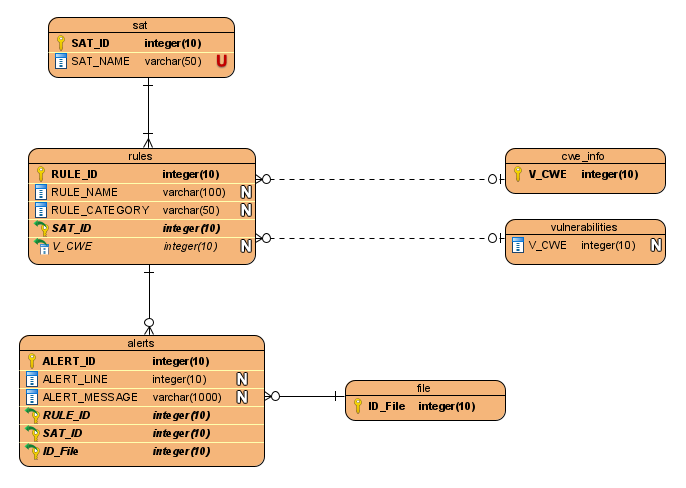
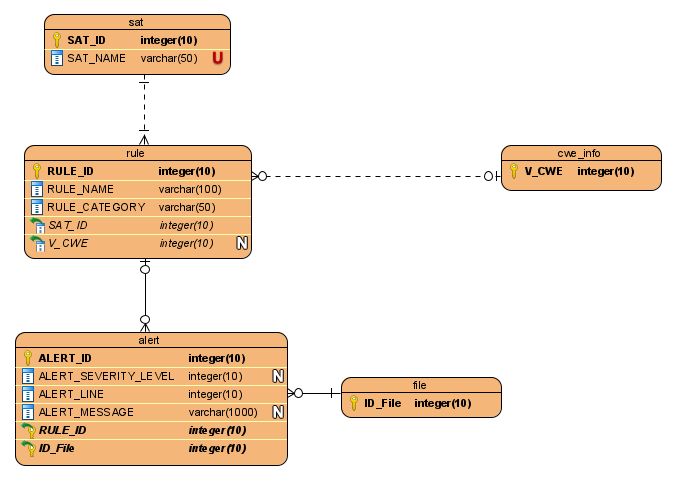
Update the "CVE Details and MFSA" section in the scripts README. Update the SAT tables ER diagram. Add "add-sat-results-to-database.py".

diff --git a/scripts/add-sat-results-to-database.py b/scripts/add-sat-results-to-database.py
@@ -1,0 +1,214 @@
+#!/usr/bin/env python
+import estagio
+import sys
+import mysql.connector
+import glob
+import pandas as pd
+
+"""
+	@TODO
+
+	Requirements:
+
+	pip install mysql-connector-python
+	pip install pandas
+	pip install xlrd
+"""
+
+database_config = estagio.load_database_config()
+
+try:
+	print('Connecting to the database...')
+	connection = mysql.connector.connect(**database_config)
+	cursor = connection.cursor(prepared=True)
+except mysql.connector.Error as error:
+	error_string = repr(error)
+	print(f'Failed to connect to the database with the error: {error_string}')
+	sys.exit(1)
+
+# --------------------------------------------------
+
+try:
+	print('Creating the SAT table...')
+	cursor.execute(	'''
+						CREATE TABLE IF NOT EXISTS sat
+						(
+							SAT_ID INTEGER AUTO_INCREMENT PRIMARY KEY,
+							SAT_NAME VARCHAR(50) NOT NULL UNIQUE
+						);
+					''')
+
+	connection.commit()
+except mysql.connector.Error as error:
+	error_string = repr(error)
+	print(f'Failed to create the SAT table with the error: {error_string}')
+	sys.exit(1)
+
+# --------------------------------------------------
+
+try:
+	print('Creating the Rules table...')
+	cursor.execute(	'''
+						CREATE TABLE IF NOT EXISTS rule
+						(
+							RULE_ID INTEGER AUTO_INCREMENT PRIMARY KEY,
+							RULE_NAME VARCHAR(100) NOT NULL UNIQUE,
+							RULE_CATEGORY VARCHAR(50) NOT NULL,
+
+							SAT_ID INTEGER NOT NULL,
+							V_CWE INTEGER,
+							
+							FOREIGN KEY (SAT_ID) REFERENCES sat(SAT_ID) ON DELETE RESTRICT ON UPDATE RESTRICT
+						);
+					''')
+	# FOREIGN KEY (V_CWE) REFERENCES cwe_info(V_CWE) ON DELETE RESTRICT ON UPDATE RESTRICT
+
+	connection.commit()
+except mysql.connector.Error as error:
+	error_string = repr(error)
+	print(f'Failed to create the Rules table with the error: {error_string}')
+	sys.exit(1)
+
+# --------------------------------------------------
+
+try:
+	print('Creating the Alerts table...')
+	cursor.execute(	'''
+						CREATE TABLE IF NOT EXISTS alert
+						(
+							ALERT_ID INTEGER AUTO_INCREMENT PRIMARY KEY,
+							ALERT_SEVERITY_LEVEL INTEGER,
+							ALERT_LINE INTEGER NOT NULL,
+							ALERT_MESSAGE VARCHAR(1000),
+
+							RULE_ID INTEGER NOT NULL,
+							ID_File INTEGER NOT NULL,
+							
+							FOREIGN KEY (RULE_ID) REFERENCES rule(RULE_ID) ON DELETE RESTRICT ON UPDATE RESTRICT
+						);
+					''')
+
+	connection.commit()
+except mysql.connector.Error as error:
+	error_string = repr(error)
+	print(f'Failed to create the Alerts table with the error: {error_string}')
+	sys.exit(1)
+
+# --------------------------------------------------
+print()
+
+SAT_RESULTS_DIRCTORY = 'sat-results'
+SAT_NAMES = ['Cppcheck', 'Flawfinder']
+
+try:
+	print('Inserting the following SATs in the SAT table:')
+	print(SAT_NAMES)
+	
+	name_list = [(name,) for name in SAT_NAMES]
+	cursor.executemany(	'''
+							INSERT IGNORE INTO sat (SAT_NAME)
+							VALUES (%s);
+						''',
+						name_list)
+
+	connection.commit()
+except mysql.connector.Error as error:
+	error_string = repr(error)
+	print(f'Failed to insert the SATs with the error: {error_string}')
+	sys.exit(1)
+
+print()
+print(f'---> Adding SAT results to the database:')
+print()
+
+cppcheck_results = glob.iglob(fr'{SAT_RESULTS_DIRCTORY}\cppcheck*')
+INSERT_FREQUENCY = 4000
+
+for results_path in cppcheck_results:
+	
+	# For now, we'll assume it's an Excel .xlsx file.
+	results = pd.read_excel(results_path, sheet_name='All Alerts', na_values=['None', 'CWE not found'])
+
+	print(f'Adding the {len(results)} Cppcheck results from "{results_path}"...')
+
+	for index, row in results.iterrows():
+
+		if index % INSERT_FREQUENCY == 0:
+
+			commit = row['commit']
+			filename_loc = row['filename-loc']
+			category = row['severity']
+			rule_name = row['id']
+			message = row['message']
+			cwe = row['cwe']
+
+			file_path, line = filename_loc.split(':', 1)
+
+			try:
+				cursor.execute(	'''
+									INSERT IGNORE INTO rule (RULE_NAME, RULE_CATEGORY, SAT_ID, V_CWE)
+									VALUES
+									(
+										%s,
+										%s,
+										(SELECT SAT_ID FROM sat WHERE SAT_NAME = 'Cppcheck' LIMIT 1),
+										%s
+									);
+								''',
+								(rule_name, category, cwe))
+
+				connection.commit()
+			except mysql.connector.Error as error:
+				error_string = repr(error)
+				print(f'Failed to insert the rule "{rule_name}" with the error: {error_string}')
+
+			try:
+				print(f'- Inserting alert #{index} in the file "{file_path}"...')
+
+				cursor.execute(	'''
+									INSERT INTO alert (ALERT_LINE, ALERT_MESSAGE, RULE_ID, ID_File)
+									VALUES
+									(
+										%s,
+										%s,
+										(SELECT RULE_ID FROM rule WHERE RULE_NAME = %s LIMIT 1),
+										(
+											SELECT ID_File FROM
+											(
+												SELECT * FROM files_1_dom
+												UNION ALL
+												SELECT * FROM files_1_javascript
+												UNION ALL
+												SELECT * FROM files_1_javascript_extras
+												UNION ALL
+												SELECT * FROM files_1_javascript_xpconnect
+												UNION ALL
+												SELECT * FROM files_1_layout_rendering
+												UNION ALL
+												SELECT * FROM files_1_libraries
+												UNION ALL
+												SELECT * FROM files_1_mozilla
+												UNION ALL
+												SELECT * FROM files_1_network
+												UNION ALL
+												SELECT * FROM files_1_toolkit
+												UNION ALL
+												SELECT * FROM files_1_webpage_structure
+												UNION ALL
+												SELECT * FROM files_1_widget
+											) all_files
+											WHERE FilePath = %s
+											LIMIT 1
+										)
+									);
+								''',
+								(line, message, rule_name, file_path))
+
+				connection.commit()
+			except mysql.connector.Error as error:
+				error_string = repr(error)
+				print(f'Failed to insert the alert #{index} with the error: {error_string}')
+
+print()
+
+print('Finished running.')

diff --git a/scripts/add-vulnerability-categories-and-cwe-information.py b/scripts/add-vulnerability-categories-and-cwe-information.py
@@ -57,7 +57,7 @@ try:
 						(
 							ID_CATEGORY INTEGER AUTO_INCREMENT PRIMARY KEY,
 							NAME VARCHAR(50) NOT NULL UNIQUE
-						)
+						);
 					''')
 
 	connection.commit()
@@ -76,7 +76,7 @@ try:
 							V_CWE INTEGER PRIMARY KEY,
 							DESCRIPTION VARCHAR(1000) NOT NULL,
 							ID_CATEGORY INTEGER
-						)
+						);
 					''')
 
 	connection.commit()

diff --git a/scripts/README.md b/scripts/README.md
@@ -54,14 +54,19 @@ The script `run-sats.py` currently does not connect to the database, but it will
 
 The scripts `explore-cve-details-scraper.py` and `explore-mfsa-scraper.py` do not depend on the software vulnerability database and may be used in any order.
 
-## CVE Details vs MFSA
+## CVE Details and MFSA
 
 This section lists any information that can be retrieved from the [CVE Details](https://www.cvedetails.com/) and [MFSA](https://www.mozilla.org/en-US/security/advisories/) websites.
 
-A few examples to consider:
+### MFSA Page Layout
+
+First Page Layout (Description -> Workaround -> References): from [MFSA 2005-01](https://www.mozilla.org/en-US/security/advisories/mfsa2005-01/) until [MFSA 2016-84](https://www.mozilla.org/en-US/security/advisories/mfsa2016-84/).
+
+Second Page Layout (CVE List): from [MFSA 2016-85](https://www.mozilla.org/en-US/security/advisories/mfsa2016-85/) until [MFSA 2020-44](https://www.mozilla.org/en-US/security/advisories/mfsa2020-44/) (present).
+
+A few CVE Details examples to consider:
 * [CVE-2019-17351](https://www.cvedetails.com/cve/CVE-2019-17351/) (Linux Kernel)
 * [CVE-2019-11754](https://www.cvedetails.com/cve/CVE-2019-11754/) (Mozilla Firefox) which references [MFSA 2019-31](https://www.mozilla.org/en-US/security/advisories/mfsa2019-31/)
-* [MFSA 2005-01](https://www.mozilla.org/en-US/security/advisories/mfsa2005-01/) (Mozilla Firefox and the Mozilla Suite)
 
 ### Common Information
 1. CVE
